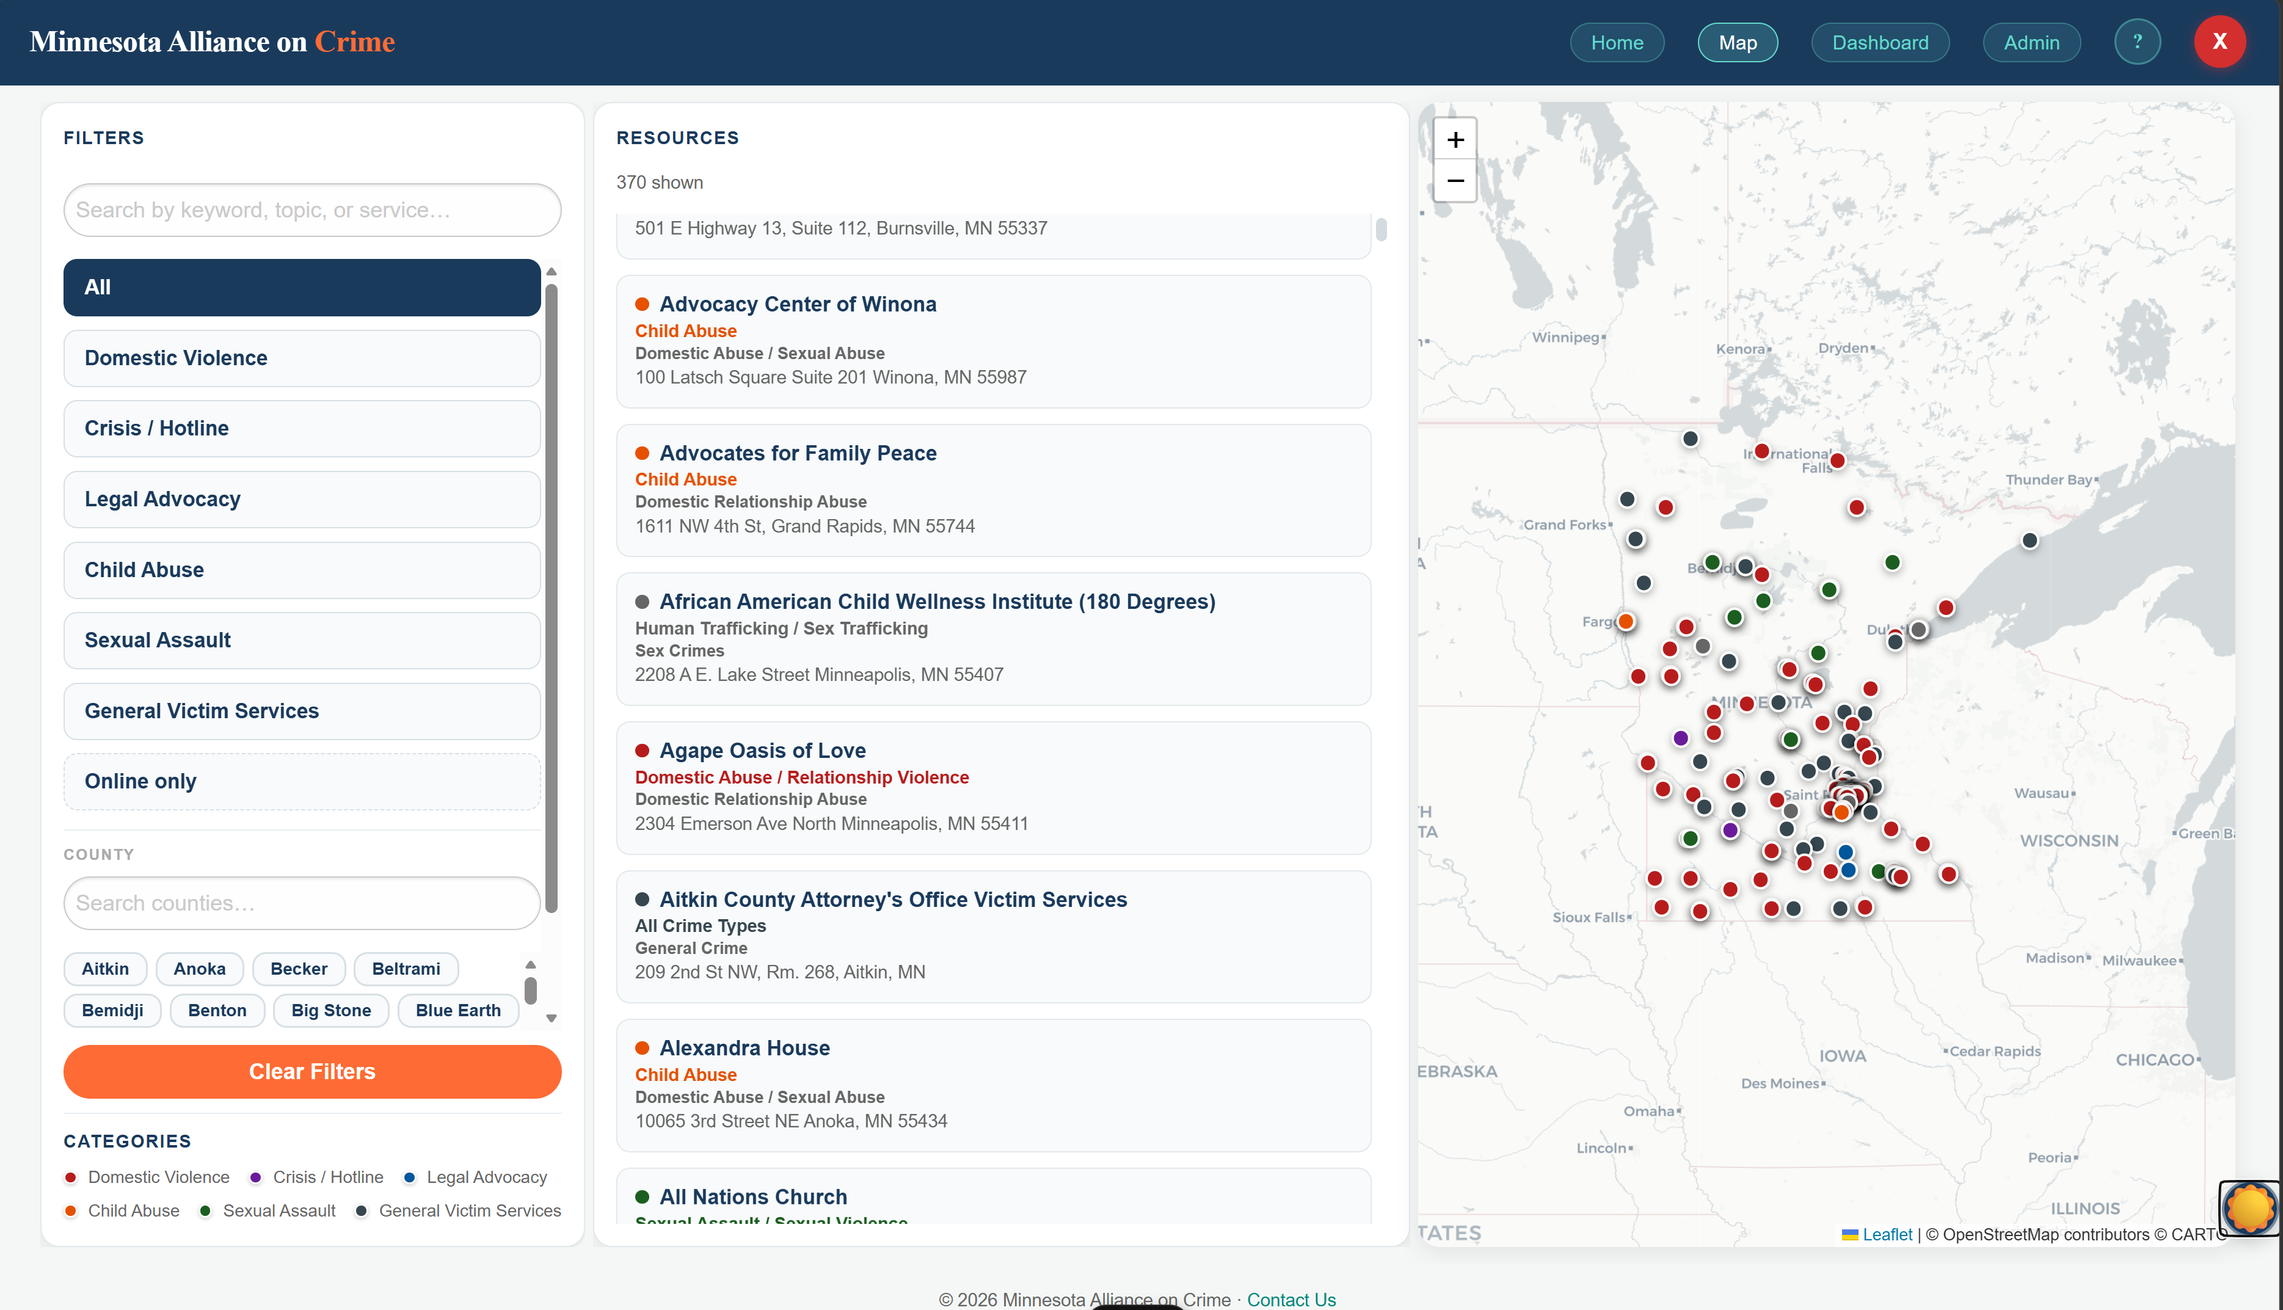
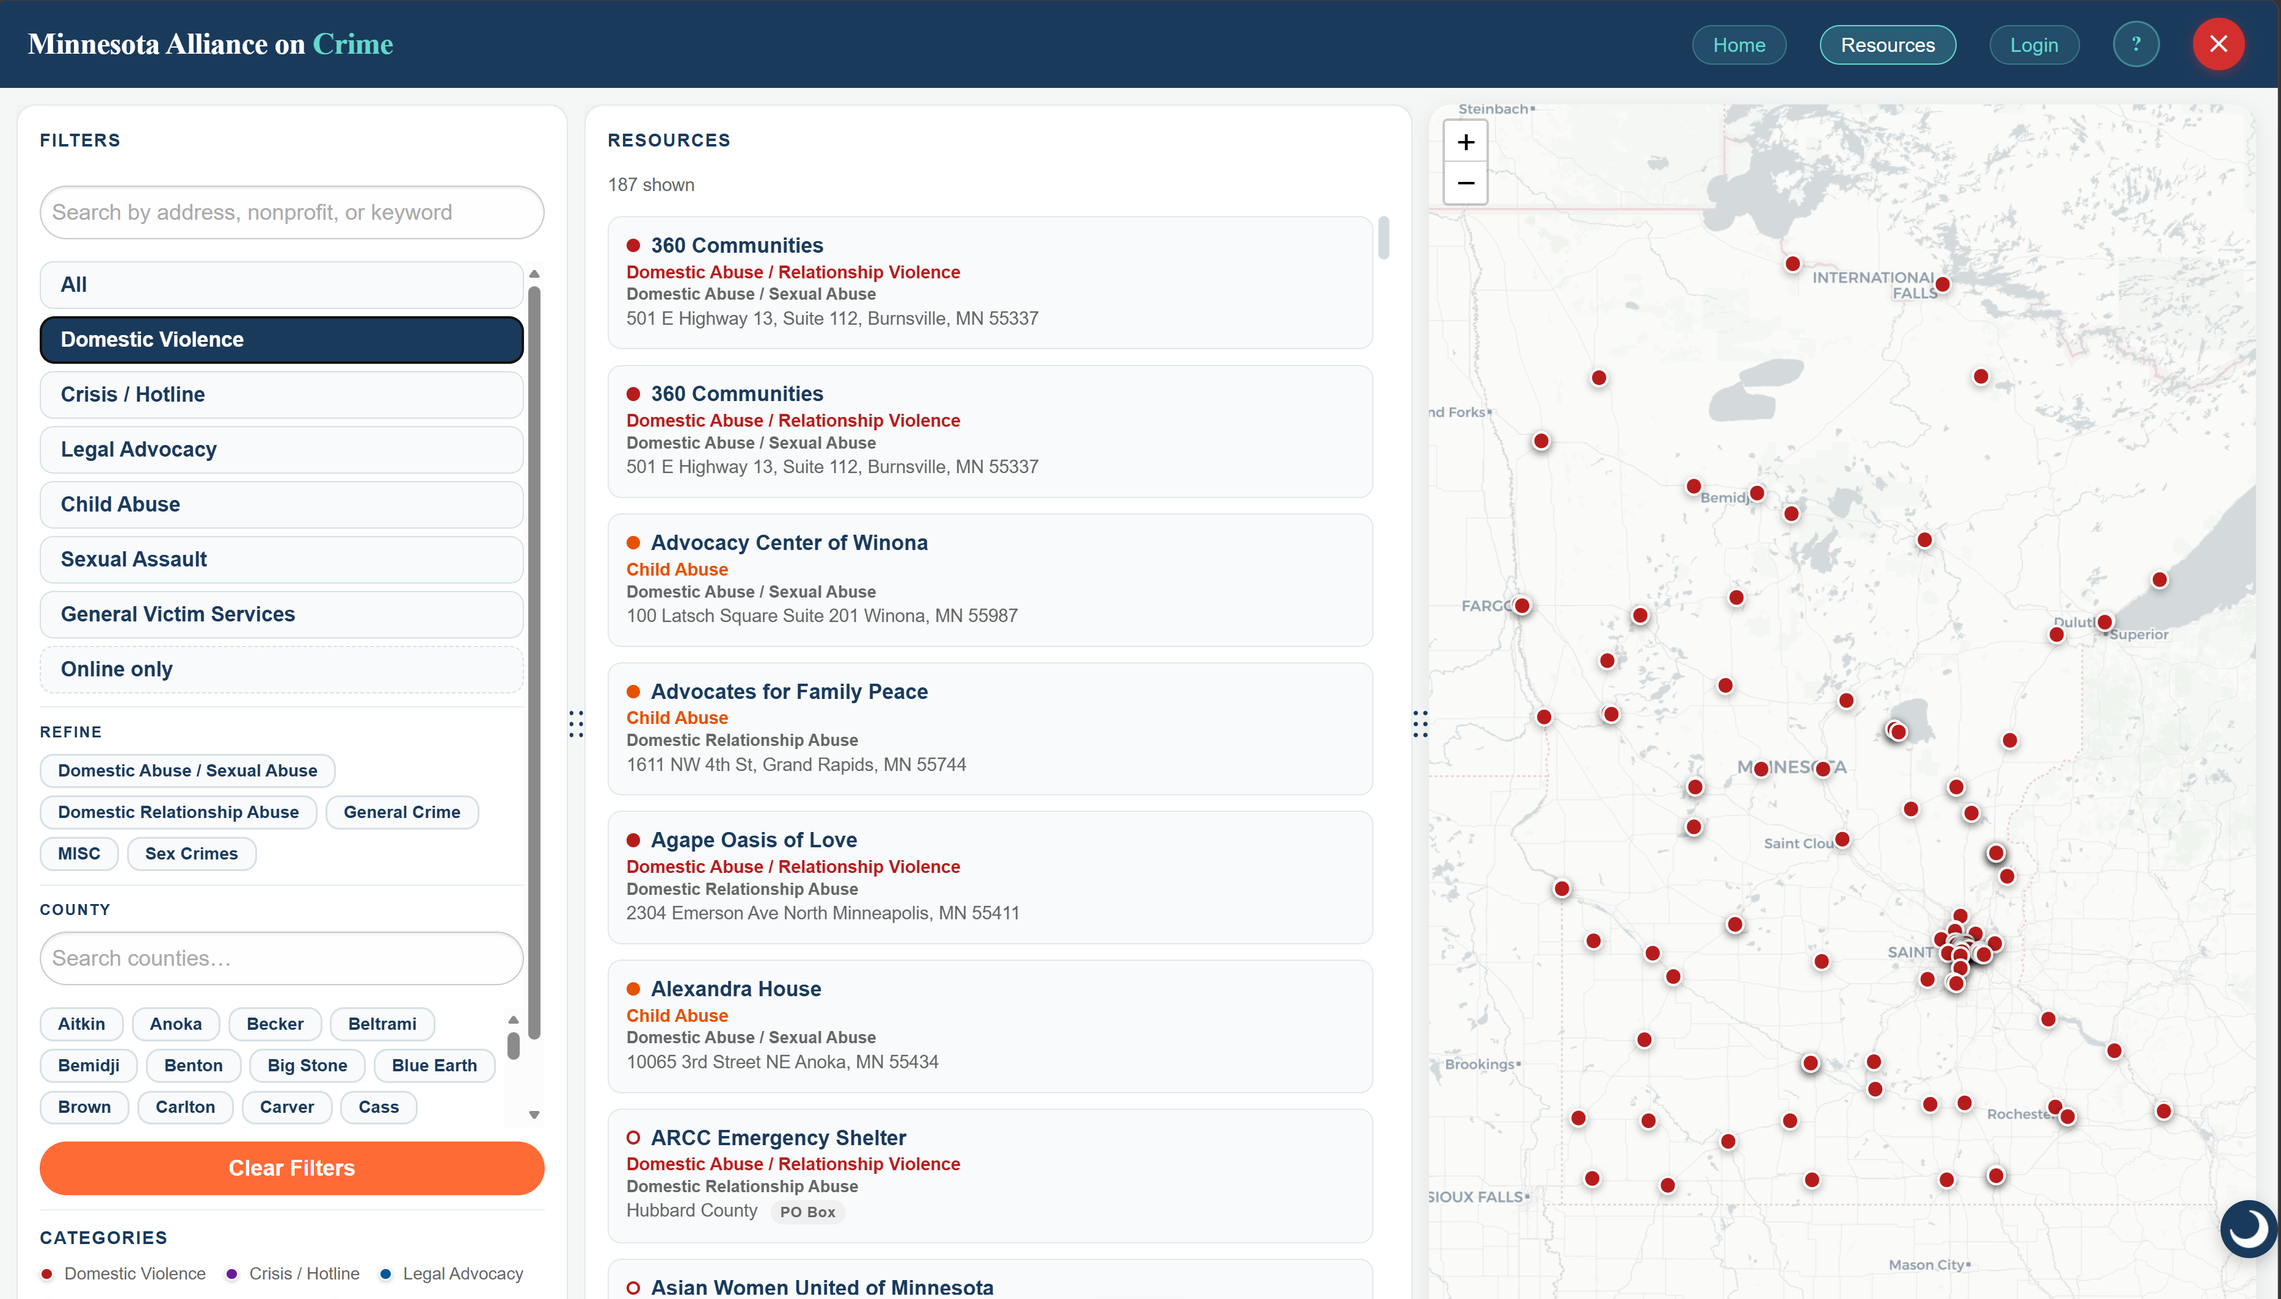
Refactored Projects and Others

diff --git a/src/components/Projects.vue b/src/components/Projects.vue
@@ -3,88 +3,81 @@
     Projects.vue
     Author: Charlotte Soeurng
 */
+
 const projects = [
     {
         id: 1,
         title: 'Minnesota Alliance on Crime',
+        date: 'February 2026 - July 2026',
         figure: `${import.meta.env.BASE_URL}macWebsite.png`,
-        contribution: 'Lead Frontend Developer, UI Designer, and QA',
+        contribution: 'Frontend Developer, UI/UX Designer, and QA',
         description: `
-            <strong>Situation:</strong> Developed mobile-responsive crime resource directory for nonprofits and Minnesota crime victims.
+            Minnesota nonprofit needed responsive directory to connect crime victims, advocates, and organizations to over 300 resources around the state. I owned frontend development, UI/UX design, and QA on a small team under a tight schedule. I built search and filter functionality, dark mode, responsive design system, and conducted cross-browser and cross-device testing for every implementation front and back end.
             <br><br>
-            <strong>Obstacle:</strong> Small team with tight schedules, and navigating real-world client needs and expectations. 
+            The directory successfully launched by the end of May 2026, and is currently live and used by nonprofits and crime victims.
             <br><br>
-            <strong>Action:</strong> Led frontend development using Vue.js, created design system and dark mode features, and tested all implementations (frontend, backend) across different devices and browsers.
-            <br><br>
-            <strong>Result:</strong> Successfully launched directory with positive client feedback, and learned how to balance technical decisions with user needs and project constraints.
         `,
-        keywords: ['Vue.js', 'SQL', 'Web Development'],
+        keywords: ['Vue.js', 'JavaScript', 'LeafLet', 'Firebase', 'API', 'Crime Resources', 'Web Application', 'NonProfit'],
         links: [
-            { label: 'GitHub', href: 'https://github.com/JesseBA04/sp26-team3-mac' },
+            { label: 'Deployment', href: 'https://crime-resource-directory-mn.vercel.app/' },
         ],
     },
     {
         id: 2,
-        title: 'Indigo Water',
-        figure: `${import.meta.env.BASE_URL}indogoWater.png`,
-        contribution: 'Programmer and Level Designer',
+        title: 'FoodScale',
+        date: 'May 2026 - Present',
+        figure: `${import.meta.env.BASE_URL}foodscale.png`,
+        contribution: 'Founder, Developer, and Designer',
         description: `
-            <strong>Situation:</strong> Built a 2D fishing game using GameMaker. The player drives a boat, collects fish, and occasionally pulls up trash, which can be combined to craft reusable items.
+            Meal prep calculator for lifters and strict dieters utilizing within a fixed food set and macronutrient constraints. I built the full stack application, including frontend, and backend using the USA Food Data Central API. I also designed responsive UI/UX and conducted all testing.
             <br><br>
-            <strong>Obstacle:</strong> Working solo as the programmer meant owning every system: player movement, collision, inventory, and the crafting mechanic. Scoping a complete, playable game within a semester was the main challenge.
-            <br><br>
-            <strong>Action:</strong> Implemented all gameplay systems in GameMaker, including boat controls, fish and trash spawning, and a crafting system that lets players build new items from collected garbage.
-            <br><br>
-            <strong>Result:</strong> Shipped a playable game and published it on itch.io. It was my first experience taking a game from concept to a live release.
+            The demo is currently finished, with the full version launching in July 2026.
         `,
-        keywords: ['GameMaker', 'itch.io', 'Game Development'],
-        links: [
-            { label: 'itch.io', href: 'https://soregunned.itch.io/indigo-water' },
-        ],
+        keywords: ['Vue.js', 'JavaScript', 'USDA', 'Meal Prep Calculator', 'Web Application'],
+        links: [],
     },
     {
         id: 3,
-        title: 'Cadenci: Music Recommendation',
-        figure: `${import.meta.env.BASE_URL}cadenci.png`,
-        contribution: 'Developer',
+        title: 'GreenStep Cities',
+        date: 'September 2025 - December 2025',
+        figure: `${import.meta.env.BASE_URL}greenstep.png`,
+        contribution: 'Database Developer',
         description: `
-            <strong>What I was trying to do:</strong> Designed Cadenci as a fun personal project, a music recommendation web app that suggests songs based on their opening lines. I completed the full frontend development and filled the database with an initial set of songs before the project stalled.
+            Minnesota nonprofit needed a database for an application that tracks city sustainability initiatives all across the state. I implemented a relational database schema, built data structures and relationships, and created queries.
             <br><br>
-            <strong>What didn't go as planned:</strong> I ran into copyright issues around licensing and displaying song lyrics, which made the idea practically impossible to continue due to legal constraints. I stopped the development before it could be completed.
-            <br><br>
-            <strong>What I learned & do differently now:</strong> I learned to do intensive research on legal and licensing considerations before starting any project, and to be more mindful of potential ethical and legal implications of the work I create.
+            The database was used by the web development team to build an application that allows cities to track their sustainability initiatives and progress.
         `,
-        keywords: ['JavaScript', 'SQL', 'Web Development'],
-        links: [],
+        keywords: ['SQL', 'MySQL', 'Database Design', 'Sustainability Tracker', 'NonProfit'],
+        links: []
     },
     {
         id: 4,
-        title: 'The Culture of Front Doors',
-        figure: `${import.meta.env.BASE_URL}frontDoor.png`,
-        contribution: 'Writer and Researcher',
+        title: 'Indigo Water',
+        date: 'November 2024 - May 2025',
+        figure: `${import.meta.env.BASE_URL}indigoWater.png`,
+        contribution: 'Programmer, Level Designer',
         description: `
-            Wrote a research paper exploring what front doors reveal about the people who utilize them. Through specific hardware like material, door location, color choices, and glass panels, the paper argues that an everyday overlooked object carries deep cultural and personal meaning.
+            Assembled team to build a complete 2D fishing game that focuses on recycling. I owned programming and level design, implementing every system such as player movement, collision, inventory, and a crafting mechanic that allows players to combine collected garbage into reusable items.
             <br><br>
-            The paper recieved perfect scores and gave me a new perspective on design and user experience. I learned to look for the "why" behind design decisions, and to consider how even small details can communicate identity, values, and intent to users.
-            <br><br>
-            In the same way front doors signal identity and values, I learned to critically reflect on how my own work and design choices communicate who I am and what I stand for as a designer and developer.
+            The game was released on itch.io and is available for free, online play on Windows.
         `,
-        keywords: ['Cultural Studies', 'Research', 'Design'],
-        links: [],
+        keywords: ['GameMaker', 'Game Development', '2D Game', 'Fishing', 'Recycling'],
+        links: [
+            { label: 'Play', href: 'https://soregunned.itch.io/indigo-water' },
+        ],
     },
     {
         id: 5,
-        title: 'Book Club Production',
+        title: 'Book Club',
+        date: 'September 2024 - December 2024',
         figure: `${import.meta.env.BASE_URL}theaterProduction.png`,
         contribution: 'Props and Lighting Technician',
         description: `
-            Served as props and lighting technician for <em>Book Club</em>, a class theater performance adapted from an existing play and open to the public. I supported both rehearsals throughout the semester and the final live performance, managing props and operating lights in real time.
+            Theater Performance class had a public performance for Book Club, adapted from an existing piece. I managed props for a 12-person cast, sourcing books and additional items from campus resources. I also ran all lighting during the 60-minute performance, supporting every rehearsal and the final live show at the end of the semester.
             <br><br>
-            The experience taught me how to stay focused and reliable under pressure. Even the smallest mistakes are visible to the audience, so precision and communication with the crew were absolutely essential.
-            <br><br>
-            Contributing to a public performance that brought the community together reflects the kind of work I find meaningful: collaborative, service-oriented, and inclusive. It also sparked a genuine interest in theater that I hadn't expected going in.
+            The performance was a success. It had a full house with seats occupied by both the campus and the local community, and it also sparked a genuine interest in theater that I didn't have when I first joined the team.
         `,
-        keywords: ['Theater', 'Collaboration', 'Live Production'],
+        keywords: ['Theater', 'Backstage', 'Live Performance', 'Props', 'Lighting'],
         links: [],
     },
 ]
@@ -109,6 +102,10 @@ const projects = [
 
                     <div class="card-body">
                         <h3 class="card-title">{{ project.title }}</h3>
+
+                        <p class="card-description">
+                            {{ project.date }}
+                        </p>
 
                         <p v-if="project.contribution" class="card-contribution">
                             <em>{{ project.contribution }}</em>

diff --git a/src/components/Other.vue b/src/components/Other.vue
@@ -1,20 +1,23 @@
 <script setup>
 /*
-    CurrentlyWorking.vue
+    Other.vue
     Author: Charlotte Soeurng
 */
 const items = [
     {
         label: 'Building',
-        title: 'foodscale',
-        description: 'A meal prep calculator for lifters and strict dieters who work within a fixed food set and macro limits.',
+        title: 'FoodScale',
+        description: 'Meal prep calculator for lifters and strict dieters utilizing within a fixed food set and macronutrient constraints.',
         badge: 'Launching July 2026',
     },
     {
         label: 'Reading',
-        title: 'Currently reading',
-        description: '',
-        badge: 'Psychological Thriller',
+        title: 'Sharp Objects',
+        description: `
+            Psychological thriller about a reporter investigating murders in her hometown. Fresh from a brief stay at a psych hospital, Camille Preaker returns to Wind Gap, Missouri, to report on the unsolved homicides of two girls.
+            <br><br>
+        `,
+        badge: 'By Gillian Flynn',
     },
 ]
 </script>
@@ -23,14 +26,14 @@ const items = [
     <section id="currently-working">
         <div class="section-container">
             <div class="section-header">
-                <h2 class="section-title">What I'm Working On</h2>
+                <h2 class="section-title">is currently working on...</h2>
             </div>
 
             <div class="cw-grid">
                 <div v-for="item in items" :key="item.label" class="card cw-card">
                     <p class="cw-label">{{ item.label }}</p>
                     <h3 class="cw-title">{{ item.title }}</h3>
-                    <p v-if="item.description" class="cw-description">{{ item.description }}</p>
+                    <p v-if="item.description" class="cw-description" v-html="item.description"></p>
                     <span class="cw-badge">{{ item.badge }}</span>
                 </div>
             </div>
@@ -39,5 +42,5 @@ const items = [
 </template>
 
 <style>
-    @import '../assets/currentlyWorkingStyle.css';
+    @import '../assets/other.css';
 </style>

diff --git a/src/views/OtherView.vue b/src/views/OtherView.vue
@@ -4,15 +4,27 @@
     Author: Charlotte Soeurng
 */
 import NavBar from '@/components/NavBar.vue'
-import CurrentlyWorking from '@/components/CurrentlyWorking.vue'
+import Other from '@/components/Other.vue'
 </script>
 
 <template>
     <div class="portfolio">
         <NavBar />
         <main>
-            <CurrentlyWorking />
+            <Other />
         </main>
+        <footer class="footer">
+            <div class="footer-section">
+                <p class="footer-texts">
+                    © 2026 <strong>Charlotte Soeurng</strong>
+                </p>
+                <div class="footer-links">
+                    <a href="https://github.com/charlotteSoeurng" target="_blank" rel="noopener">GitHub</a>
+                    <a href="https://linkedin.com/in/Charlotte-Soeurng" target="_blank" rel="noopener">LinkedIn</a>
+                    <a href="mailto:charlottesoeurng@outlook.com">Email</a>
+                </div>
+            </div>
+        </footer>
     </div>
 </template>
 

diff --git a/src/components/NavBar.vue b/src/components/NavBar.vue
@@ -74,14 +74,15 @@ onUnmounted(() => {
                 <li v-for="item in menu" :key="item.id">
                     <a
                         href="#"
-                        :class="{ active: activeSection === item.id }"
+                        :class="{ active: activeSection === item.id && route.path === '/' }"
+
                         @click.prevent="scrollTo(item.id)"
                     >
                         {{ item.label }}
                     </a>
                 </li>
                 <li>
-                    <RouterLink to="/other">Other</RouterLink>
+                    <RouterLink to="/other" :class="{ active: route.path === '/other' }">Other</RouterLink>
                 </li>
             </ul>
 

diff --git a/src/components/About.vue b/src/components/About.vue
@@ -5,8 +5,7 @@
 */
 const interests = [
     'Machine Learning',
-    'Game Development',
-    'Philosophy',
+    'Philosophy & Ethics',
     'Fitness',
     'Reading & Writing'
 ]
@@ -63,7 +62,7 @@ function scroll(id) {
                             <path d="M22 10v6M2 10l10-5 10 5-10 5z"/>
                             <path d="M6 12v5c3 3 9 3 12 0v-5"/>
                         </svg>
-                        Data Science
+                        Data Science Minor
                     </span>
                     <span class="detail">
                         <svg width="13" height="13" viewBox="0 0 24 24" fill="none" stroke="currentColor" stroke-width="2">

diff --git a/src/views/HomeView.vue b/src/views/HomeView.vue
@@ -26,7 +26,7 @@ import Resume from '@/components/Resume.vue'
                 </p>
                 <div class="footer-links">
                     <a href="https://github.com/charlotteSoeurng" target="_blank" rel="noopener">GitHub</a>
-                    <a href="https://linkedin.com/in/CharlotteSoeurng" target="_blank" rel="noopener">LinkedIn</a>
+                    <a href="https://linkedin.com/in/Charlotte-Soeurng" target="_blank" rel="noopener">LinkedIn</a>
                     <a href="mailto:charlottesoeurng@outlook.com">Email</a>
                 </div>
             </div>

diff --git a/src/assets/globalStyle.css b/src/assets/globalStyle.css
@@ -156,6 +156,15 @@ button {
     min-height: 100vh;
 }
 
+.portfolio {
+    display: flex;
+    flex-direction: column;
+    min-height: 100vh;
+}
+.portfolio main {
+    flex: 1;
+}
+
 .section-container {
     padding: 5rem 2rem;
     max-width: 1100px;

diff --git a/src/assets/other.css b/src/assets/other.css
@@ -1,3 +1,7 @@
+#currently-working {
+    padding-top: var(--nav-height);
+}
+
 .cw-grid {
     display: grid;
     grid-template-columns: repeat(auto-fill, minmax(280px, 1fr));

diff --git a/src/assets/projectsStyle.css b/src/assets/projectsStyle.css
@@ -12,7 +12,7 @@
 }
 
 .card-figure {
-    height: 148px;
+    height: 20rem;
     display: flex;
     align-items: center;
     justify-content: center;
